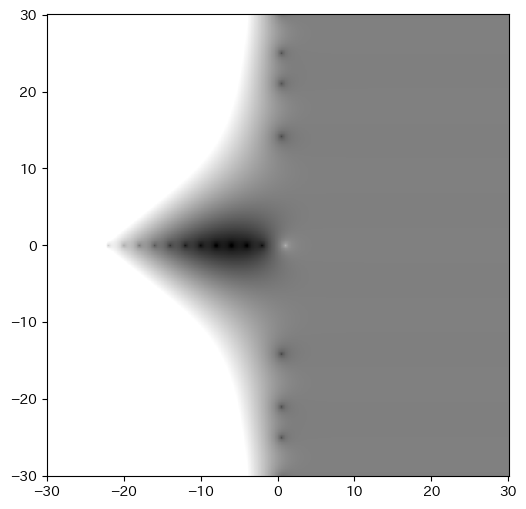
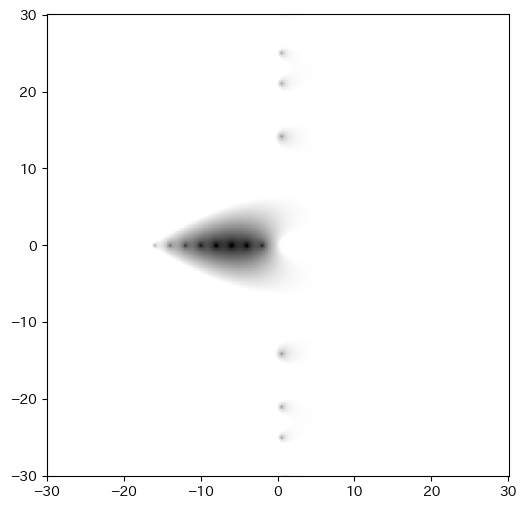
update

diff --git a/python/mpmath.html b/python/mpmath.html
@@ -130,7 +130,7 @@ x, y = np.meshgrid(np.linspace(-30, 30, 600), np.linspace(-30, 30, 600))
 z = vlogzeta(x + y * 1j)
 
 plt.figure(figsize=(6, 6))
-plt.pcolormesh(x, y, z, cmap='gray', vmin=-3, vmax=3)
+plt.pcolormesh(x, y, z, cmap='gray', vmin=-3, vmax=0)
 plt.axis('scaled')
 </pre>
 
@@ -144,7 +144,7 @@ plt.axis('scaled')
 
 <p>
 <!-- hhmts start -->
-Last modified: <time>2022-07-10 16:10:58 JST</time>
+Last modified: <time>2022-07-10 21:02:37 JST</time>
 <!-- hhmts end -->
 </p>
 </body>
